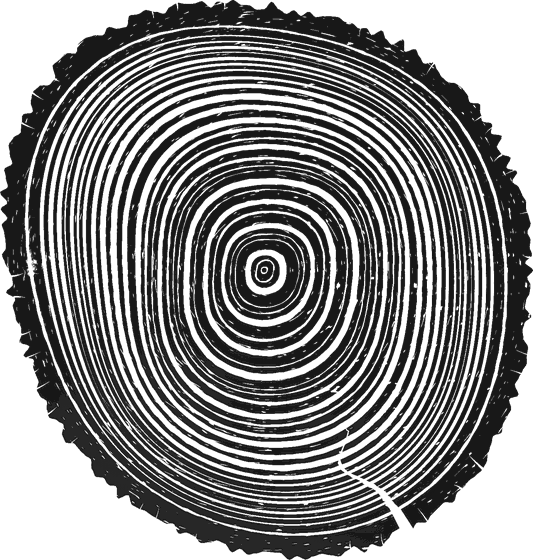
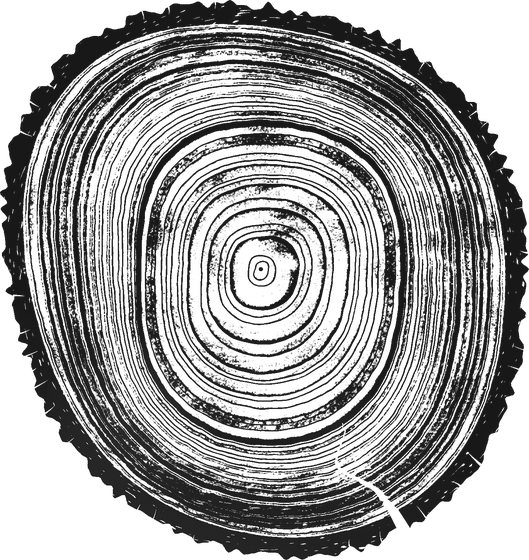
Drawn woods pressed as wood: each year built from its kind's anatomy, not carved bands; choice slices re-pressed
Claude-Session: https://claude.ai/code/session_01WhGxUDQ2nhT1B8pKnZrdq5

diff --git a/src/rings/press.ts b/src/rings/press.ts
@@ -1394,7 +1394,7 @@ function drawPrint(v: View): void {
   // The heart: the seedling's first growth, printed as a ring is (an inked band at its edge, paper within),
   // and a dark dot at its very centre: a small dot when the tree is grown, never a black disc when it's young.
   // (Oak's real wood prints its heart as its first year: see printYears.)
-  if (!(realYears() && n) && !(GROWN && !n)) {
+  if (!((realYears() || fam() !== 'ring') && n) && !(GROWN && !n)) {
     // (Never a ruled circle: its edges wander a little, as a seedling's first wood does, and its band
     // thickens and thins.)
     const hr = barkOf(-1), band = Math.min(0.4, (3 * px * Z) / Math.max(1, scr(meanR(-1))));
@@ -1419,8 +1419,9 @@ function drawPrint(v: View): void {
   // Oak and ash, once their real wood has come: the years of a red oak's and a white ash's sections,
   // pressed (see printYears). Until it has, they're drawn as the other woods are.
   const real = realYears();
-  if (real) {
-    printYears(v, real);
+  // (The other woods, each year built as its kind's is (see ANATOMY), pressed the same way.)
+  if (real || fam() !== 'ring') {
+    printYears(v, real ?? null);
     g.beginPath(); g.arc(v.cx, v.cy, 1.4 * px * Z, 0, TAU); g.fillStyle = ink(0.8); g.fill();
   } else {
     // Rings too fine to print apart (anywhere: a seedling's first years are wide, the next fine) print as
@@ -1685,7 +1686,29 @@ function vnoise(x: number, y: number): number {
  * rays run on from year to year, and where the slice has doubled in size, a new run begins (as new rays
  * do). Fine rings take a smaller copy of the year, so they never shimmer.
  */
-function printYears(v: View, oak: Years): void {
+/**
+ * How each of the drawn woods is built, year by year, for the press (`printYears` without a scan): how much
+ * ink its earlywood takes (`early`, soft and open, printing light) and its latewood (`late`), the share of
+ * the year that's latewood, the line at the year's edge, its rays (how many round, how wide, in the slice's
+ * own px), its pores (how many, how large, whether gathered in the earlywood), how strongly its real fibre
+ * shows, and a mottle (the olive's figure).
+ */
+type Anatomy = { early: number; late: number; share: number; edge: number; rays: number; rayW: number; pores: number; poreR: number; poreEarly: number; fibre: number; mottle: number };
+const ANATOMY: Partial<Record<Kind, Anatomy>> = {
+  // Cherry: semi-diffuse, its pores a little crowded at each year's start, fine rays, a clear but soft edge.
+  cherry: { early: 0.47, late: 1.0, share: 0.3, edge: 1.05, rays: 0.9, rayW: 0.42, pores: 0.11, poreR: 0.5, poreEarly: 0.6, fibre: 0.5, mottle: 0 },
+  // Maple: even and close, light, each year closed by a thin dark line; fine rays.
+  maple: { early: 0.43, late: 0.92, share: 0.14, edge: 1.04, rays: 1.1, rayW: 0.36, pores: 0.07, poreR: 0.38, poreEarly: 0.1, fibre: 0.45, mottle: 0 },
+  // Birch: pale and plain, a faint edge, very fine pores; its rays too fine to see.
+  birch: { early: 0.39, late: 0.8, share: 0.1, edge: 0.95, rays: 0, rayW: 0, pores: 0.09, poreR: 0.32, poreEarly: 0, fibre: 0.5, mottle: 0 },
+  // The conifers: soft pale earlywood darkening steadily into a firm latewood, ending sharp; no pores.
+  pine: { early: 0.29, late: 1.05, share: 0.34, edge: 1.08, rays: 0, rayW: 0, pores: 0, poreR: 0, poreEarly: 0, fibre: 0.45, mottle: 0 },
+  redwood: { early: 0.36, late: 1.0, share: 0.26, edge: 1.04, rays: 0, rayW: 0, pores: 0, poreR: 0, poreEarly: 0, fibre: 0.55, mottle: 0 },
+  bristlecone: { early: 0.32, late: 1.05, share: 0.42, edge: 1.08, rays: 0, rayW: 0, pores: 0, poreR: 0, poreEarly: 0, fibre: 0.45, mottle: 0 },
+  // Olive: dense, close and irregular, its figure a dark mottle wandering through the years.
+  olive: { early: 0.6, late: 0.96, share: 0.22, edge: 1.0, rays: 0.6, rayW: 0.3, pores: 0.05, poreR: 0.3, poreEarly: 0, fibre: 0.35, mottle: 0.45 },
+};
+function printYears(v: View, oak: Years | null): void {
   const n = tree.rings.length, c = g.canvas as HTMLCanvasElement, B = 720, Z = Math.max(1, look.k);
   const scr = (r: number) => v.s * warpR(v.warp, r);
   // The rings' radii on the screen, round the slice (ring -1 the heart).
@@ -1694,11 +1717,11 @@ function printYears(v: View, oak: Years): void {
   // Each ring's year, scale round and where round it starts; its mip level from its width on the screen.
   // (Round the ring, the wood keeps its own proportions: as many texels to the mm as across the run's
   // years, so a pore stays round and a ray fine.)
-  const W0 = oak.levels[0].w;
+  const W0 = oak ? oak.levels[0].w : 1;
   // (On the screen, as the fisheye widens a ring without lengthening it.)
   const reps = new Float32Array(n), off = new Float32Array(n), yr = new Int32Array(n), lvl = new Int32Array(n), runR = new Float32Array(n);
   const widthAt = (i: number) => (scr(meanR(i)) - scr(meanR(i - 1)));
-  for (let i = 0; i < n; i++) {
+  if (oak) for (let i = 0; i < n; i++) {
     // (Each year's scale from its own place and the last few years' widths, so the wood's
     // grain changes size smoothly out from the heart, never in a step where the slice has doubled; and only
     // from the years before, so a year added never changes them.)
@@ -1741,6 +1764,38 @@ function printYears(v: View, oak: Years): void {
   // (Never ruled: the wood wanders a little, here and there, every ring with its neighbours, as grain
   // swells round a knot or a bit of reaction wood: a shift of the rings, a fifth of a year or so, over a
   // few mm, in the wood's own place (so it stays put as the slice is looked into), fading out at the bark.)
+  // (The drawn woods: each year built as its kind's is, from the earlywood out to the latewood and its edge,
+  // with its rays, pores and real fibre; all in the slice's own px (`U`), so looked into they're the same,
+  // larger, never a fresh scatter.)
+  const an = oak ? null : ANATOMY[kind] ?? ANATOMY.cherry!, fib = wood.fibre[kind], U = px * Z, conifer = fam() === 'conifer';
+  const drawnInk = (i: number, a: number, r: number, across: number, heart: boolean, width: number, dx: number, dy: number): number => {
+    const A = an!, rho = r / U;
+    // The year: earlywood, a little deeper as it goes, then darkening into the latewood, ending sharp.
+    const share = conifer ? Math.min(0.85, A.share * (0.6 + 0.8 * calmOf(i))) : A.share;
+    const t = Math.max(0, Math.min(1, (across - (1 - share)) / share));
+    let ink = A.early * (0.85 + 0.3 * across) + (A.late - A.early) * Math.pow(t, 1.4);
+    // (Its edge: a line a pixel or so wide at the slice's own size, darker than the latewood.)
+    if (!heart && width > 0) ink = Math.max(ink, A.edge * smooth((across - (1 - (1.3 * U) / width)) / Math.max(1e-3, (0.8 * U) / width)));
+    // The real fibre, streaking along the year.
+    if (fib && A.fibre) ink *= 1 + A.fibre * (tile(fib, a * rho * 0.5, rho * 0.5) - 0.5) * 2;
+    if (A.mottle) ink *= 1 + A.mottle * (vnoise(dx / (22 * U) + 3.1, dy / (22 * U) + 7.7) - 0.5) * 2;
+    // Rays: fine radial lines, broken now and then, more of them further out, as rays begin as the wood widens.
+    if (A.rays) {
+      const lv = Math.max(0, Math.floor(Math.log2(Math.max(1, rho / 40)))), N = Math.round(A.rays * 22 * 2 ** lv);
+      const sAt = (a / TAU) * N, k = Math.floor(sAt), mid = k + 0.5 + (h1(k * 1.7 + lv * 31) - 0.5) * 0.7, dist = Math.abs(sAt - mid) * (TAU * rho) / N;
+      if (dist < A.rayW * 2 && vnoise(k * 3.1 + lv * 17, rho / 16) > 0.45) ink *= 0.78 + 0.22 * smooth(dist / A.rayW - 0.4);
+    }
+    // Pores: open vessels, paper in the print, scattered (or gathered at the year's start), in the wood's place.
+    if (A.pores) {
+      const C = 3, ci = Math.floor(rho / C), cj = Math.floor((a * rho) / C), hh = h1(ci * 7.31 + cj * 1.713 + i * 0.37);
+      if (hh < A.pores * SPARSE * Math.max(0, 1 + A.poreEarly * (1 - 2 * across))) {
+        const cr = (ci + 0.2 + 0.6 * h1(hh * 91.3)) * C, ca = (cj + 0.2 + 0.6 * h1(hh * 53.7)) * C, pr = A.poreR * (0.6 + 0.8 * h1(hh * 17.1));
+        const dd = Math.hypot(rho - cr, a * rho - ca) / pr;
+        if (dd < 1.4) ink *= Math.min(1, Math.max(0.05, dd - 0.4));
+      }
+    }
+    return Math.max(0, ink);
+  };
   const yearMm = n ? meanR(n - 1) / n : 1, wA = 0.22 * yearMm * v.s, wL = 1 / (Math.max(2.2, 3 * yearMm) * v.s), wL2 = wL * 2.7;
   // (A fine year's line on its edge, drawn smooth across the pixels, a little heavier or lighter than the
   // next, and its weight wandering with the press.)
@@ -1766,18 +1821,21 @@ function printYears(v: View, oak: Years): void {
       let lo = 0, hi = n - 1;
       while (lo < hi) { const m = (lo + hi) >> 1; if (at(m, b, f) > r) hi = m; else lo = m + 1; }
       const heart = r < at(-1, b, f), i = heart ? 0 : lo, rin = heart ? 0 : at(i - 1, b, f), rout = heart ? at(-1, b, f) : at(i, b, f);
-      const across = (r - rin) / Math.max(1e-3, rout - rin), year = heart ? (yr[0] + oak.n - 1) % oak.n : yr[i];
+      const across = (r - rin) / Math.max(1e-3, rout - rin), year = !oak ? 0 : heart ? (yr[0] + oak.n - 1) % oak.n : yr[i];
       // (Never evenly round: a gentle stretch and squeeze round each ring, its own, so the rays fall
       // unevenly and bend a little from year to year. The heart, soft: a blurred year, no rays meeting.)
       // (Toward the middle, a ring's wood is drawn in ever tighter round: there it takes a softer copy, so
       // it never gathers into a star.)
-      const tight = r < runR[i] ? Math.ceil(Math.log2(runR[i] / Math.max(1, r))) : 0;
-      const L = oak.levels[Math.min(oak.levels.length - 1, lvl[i] + tight + (heart ? 3 : 0))], rows = L.rows;
-      const wob = (0.09 * Math.sin(2 * a + i * 1.7) + 0.06 * Math.sin(3 * a + i * 2.9 + 1) + 0.04 * Math.sin(5 * a + i * 0.6)) * W0;
-      // (Its springwood opened toward the paper, its latewood kept heavy: the year reads as a band, as the
-      // other woods' do, never a field of charcoal.)
-      let ink = sample(L, (((a / TAU) * reps[i] * W0 + off[i] + wob * reps[i] * 0.15) * L.w) / W0, year * rows + across * rows, year * rows, rows);
-      ink = Math.pow(ink, 1 + 1.2 * (1 - smooth((across - 0.35) / 0.45))) * tone(i);
+      let ink: number;
+      if (oak) {
+        const tight = r < runR[i] ? Math.ceil(Math.log2(runR[i] / Math.max(1, r))) : 0;
+        const L = oak.levels[Math.min(oak.levels.length - 1, lvl[i] + tight + (heart ? 3 : 0))], rows = L.rows;
+        const wob = (0.09 * Math.sin(2 * a + i * 1.7) + 0.06 * Math.sin(3 * a + i * 2.9 + 1) + 0.04 * Math.sin(5 * a + i * 0.6)) * W0;
+        // (Its springwood opened toward the paper, its latewood kept heavy: the year reads as a band, as the
+        // other woods' do, never a field of charcoal.)
+        ink = sample(L, (((a / TAU) * reps[i] * W0 + off[i] + wob * reps[i] * 0.15) * L.w) / W0, year * rows + across * rows, year * rows, rows);
+        ink = Math.pow(ink, 1 + 1.2 * (1 - smooth((across - 0.35) / 0.45))) * tone(i);
+      } else ink = drawnInk(i, a, r, across, heart, rout - rin, dx, dy) * tone(i);
       if (!heart && thin[i] > 0) {
         // (As dark as the wide years: lines as wide as some three-fifths of the space they stand for.)
         ink *= 1 - 0.5 * thin[i];
@@ -1843,7 +1901,7 @@ function inkGrain(c: HTMLCanvasElement, v: View, band?: [number, number], soft =
   // (Oak's real wood carries its own grain: only its bark takes this. Pine's grain is its real fibre.)
   let inside = 0;
   // (Oak's and ash's real wood carries its own grain: only their bark takes this.)
-  if (realYears() && last) { inside = Infinity; for (let i = 0; i < K; i += 4) inside = Math.min(inside, v.s * warpR(v.warp, last[i]) - 1); }
+  if ((realYears() || fam() !== 'ring') && last) { inside = Infinity; for (let i = 0; i < K; i += 4) inside = Math.min(inside, v.s * warpR(v.warp, last[i]) - 1); }
   const fib = fam() !== 'ring' ? wood.fibre[kind] : undefined, perMm = 20 / v.s;
   // The press: the paper's tooth (some 0.12 mm, never finer than a pixel), the pressure wandering
   // across the block, and the saw's marks, faint arcs from a far-off blade (seen only looking close).

diff --git a/README.md b/README.md
@@ -376,7 +376,7 @@ Locally, run `npm run dev` and open `/volcano.html`. The simulation (`src/volcan
 
 `press.html` (`src/rings/`) is a daily practice; Atlas Minor and Warm to the Touch are untouched by it. You grow one tree, a ring a day: **draw one calm loop round the slice of its trunk, and it's pressed into the wood as that day's year.** It learns from the practice of drawing one circle a day (the Zen ensō). Nothing can go wrong, and nothing is counted: no score, no streak, no dates. It's meant to be calm, and everything in it is judged by that. (It was called Annulus; saves keep the `annulus` names.) How it got here is in [RINGS-HISTORY.md](RINGS-HISTORY.md); how it's drawn, in [RINGS-STYLE.md](RINGS-STYLE.md).
 
-**The look.** A relief print of real wood: the slice is inked and pressed, as in a tree-ring print, heavy black ink on warm paper, the paper's tooth over everything. Oak's and ash's years are pressed from scans of real sawn wood (`wood.ts`, `printYears`); the other woods' from their own fibre and pores. The ink takes unevenly, as a pressed block does (`inkGrain`, after a Munch woodcut's grain). The block leaves a faint press mark along the slice's outer edge (`markOf`). At rest the slice breathes, swelling by a sixtieth and settling.
+**The look.** A relief print of real wood: the slice is inked and pressed, as in a tree-ring print, heavy black ink on warm paper, the paper's tooth over everything. Oak's and ash's years are pressed from scans of real sawn wood (`wood.ts`, `printYears`); the other seven woods' are built as each kind's are (`ANATOMY`): a light, speckled earlywood carrying its real fibre (from Hough's plates), darkening into the latewood and a crisp edge, with its fine rays and its pores where the kind has them, pressed pixel by pixel the same way. The ink takes unevenly, as a pressed block does (`inkGrain`, after a Munch woodcut's grain). The block leaves a faint press mark along the slice's outer edge (`markOf`). At rest the slice breathes, swelling by a sixtieth and settling.
 
 **Drawing a ring.** Touch anywhere round the slice and draw. The line is a brush, wet when unhurried, dry when quick, and evaporates behind the hand. Close the loop (or come within a short way of where it began) and the ring is laid; let go short and it rests, to be taken up again. Where it's drawn is the year's edge: a wide loop a wide year. The bark is the same size on the sheet every day, so the day's loop is drawn in the same place; the years before tighten in toward the heart.
 * **Knots and burls.** Hold the brush still a moment on the loop and a branch begins there: a knot, the branch cut across, its own few rings with the trunk's swept round it, grown over once left. Scribble back and forth and the wood burls: the rings swell and swirl round dark bud specks. Both are made of the rings themselves, pulled about where they lie (`markSwell`, `warpMarks`).

diff --git a/RINGS-HISTORY.md b/RINGS-HISTORY.md
@@ -158,3 +158,5 @@ Still to come (`trees.ts`): a redwood with fires, a bristlecone with drought, a 
 **The press's mark, not a glow** (since October 17). The breath's haze round the slice read as a screen's drop shadow: a print on paper has no halo. It's gone; the breath is the slice's own slight swell (now at rest too). In its place, what a real print has: the paper pushed down under the block, a faint rim along the print's own rough outer edge only (`markOf`, made once a print from its own shape filled solid, never between the years), a touch of shadow toward the light where the sheet steps down, a hairline of light on the far side. Away while a ring is drawn or grows, so it's never where the bark isn't.
 
 **Knots and burls in the opening** (since October 17). A knot's rings and a burl's specks and tangle are measured in the screen's pixels as the slice is looked into; the opening presses the wood far larger than it's shown, at its own scale, so they came out a fraction of their size there (a knot a dot, a burl nearly gone). Now they're pressed as much larger as the wood is (`markK`).
+
+**The drawn woods as wood, not a carved block** (since October 17). The seven woods without scanned years were drawn as solid black bands, most of each ring inked, with smooth knife-cut edges and white streaks through them: a carved block, not wood. Now each is pressed pixel by pixel as oak's and ash's real years are (`printYears` without a scan), each year built as its kind's is (`ANATOMY`): a light earlywood printing as a speckled tone, with its real fibre streaking along it; darkening into the latewood (a conifer's wider for an unhurried day); a crisp line at its edge; fine rays (cherry, maple, olive); pores in the wood's own place (cherry's gathered at the year's start); the olive's dark mottle. The choosing slices pressed again with it.
